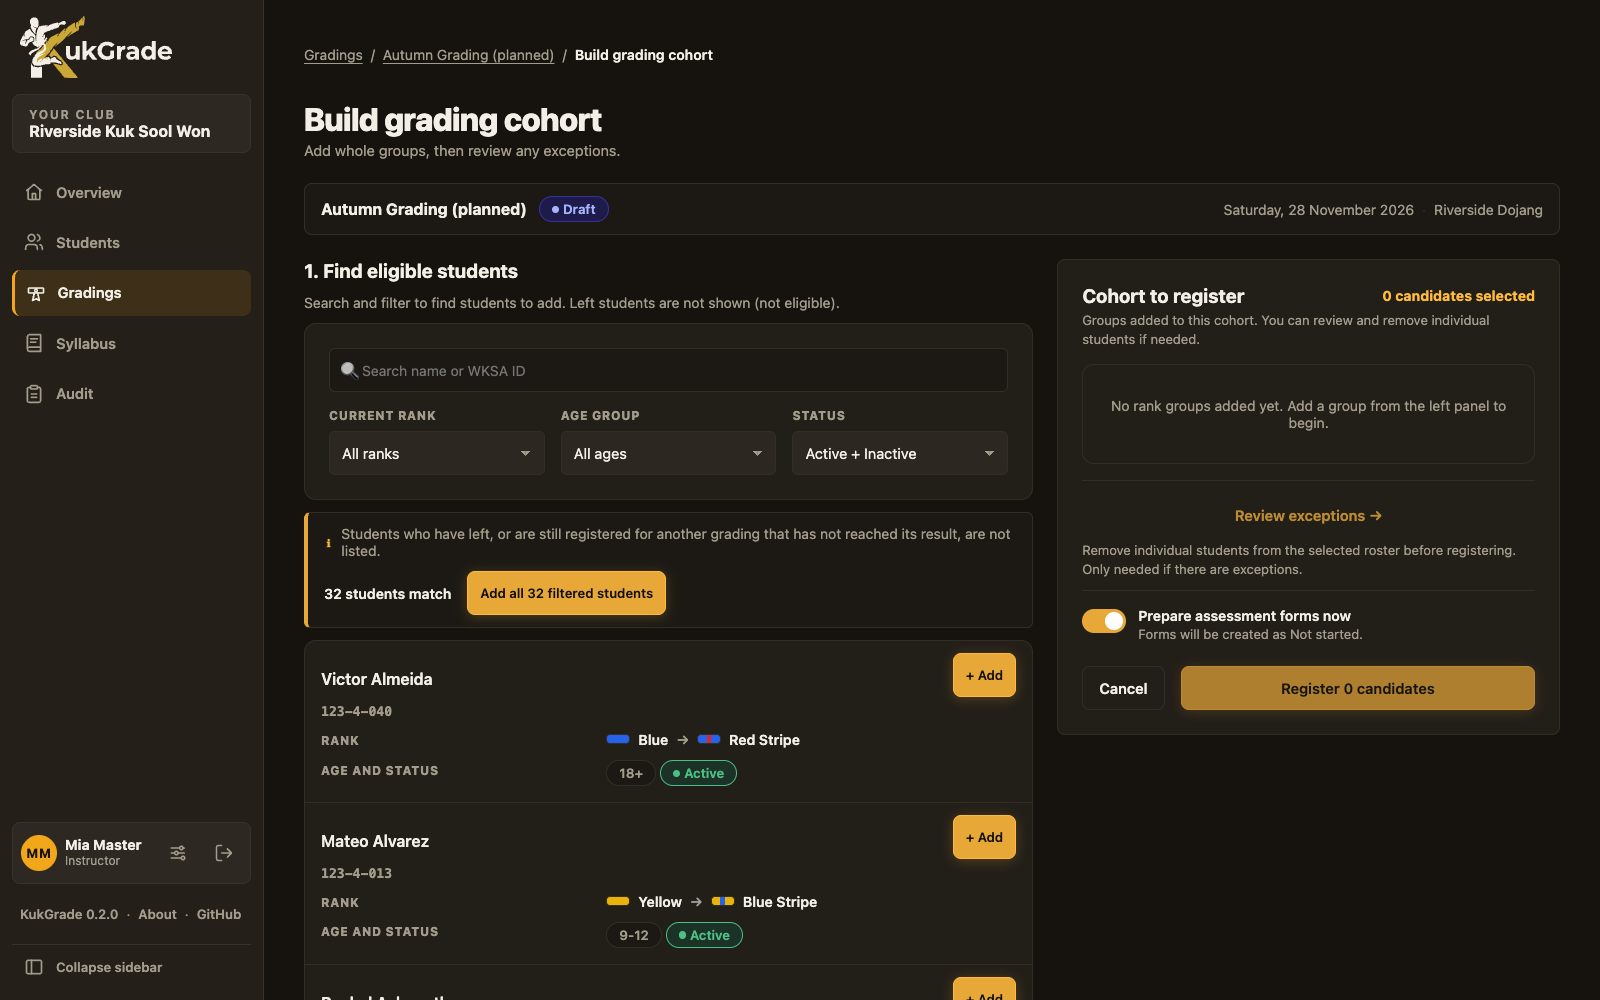
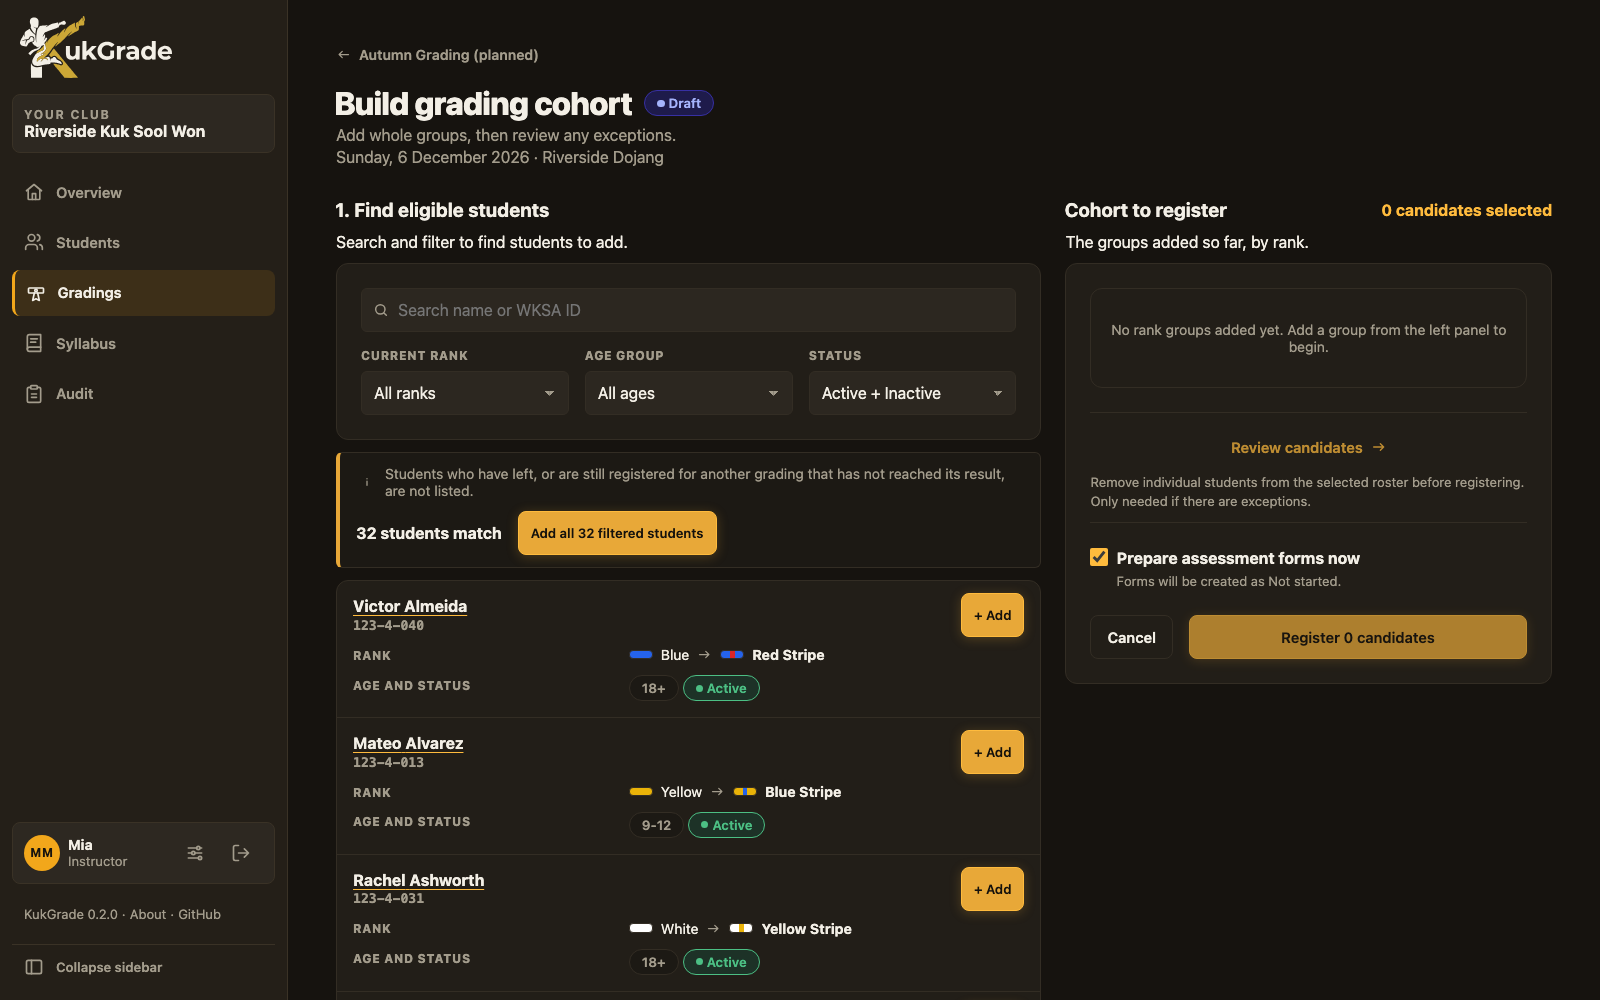
docs: new README screenshots, lined up in their table
The seven pictures retaken from the demo club as it is now (dark, 1600 x 1000,
each page at its top, the demo strip hidden for the photo). The table's cells
are top-aligned and each picture fills its cell, so pairs line up.

diff --git a/README.md b/README.md
@@ -92,32 +92,32 @@ Pangolin: see the [installation guide](docs/installation.md). Every setting is i
 
 <table>
   <tr>
-    <td width="50%">
-      <img src="docs/assets/screenshots/session.png" alt="A grading session with its lifecycle and candidates">
+    <td width="50%" valign="top">
+      <img src="docs/assets/screenshots/session.png" alt="A grading session with its lifecycle and candidates" width="100%">
       <p align="center"><b>Run a grading session</b><br>Lifecycle, candidates and next actions at a glance</p>
     </td>
-    <td width="50%">
-      <img src="docs/assets/screenshots/assessment.png" alt="Scoring a candidate requirement by requirement">
+    <td width="50%" valign="top">
+      <img src="docs/assets/screenshots/assessment.png" alt="Scoring a candidate requirement by requirement" width="100%">
       <p align="center"><b>Assess on the mat</b><br>Mark every requirement, with a live count</p>
     </td>
   </tr>
   <tr>
-    <td width="50%">
-      <img src="docs/assets/screenshots/decisions.png" alt="The Master's final decision board">
+    <td width="50%" valign="top">
+      <img src="docs/assets/screenshots/decisions.png" alt="The Master's final decision board" width="100%">
       <p align="center"><b>Decide</b><br>The evidence, the proposal and the final decision, side by side</p>
     </td>
-    <td width="50%">
-      <img src="docs/assets/screenshots/cohort.png" alt="Building a grading cohort">
+    <td width="50%" valign="top">
+      <img src="docs/assets/screenshots/cohort.png" alt="Building a grading cohort" width="100%">
       <p align="center"><b>Build a cohort</b><br>Add whole groups, then review exceptions</p>
     </td>
   </tr>
   <tr>
-    <td width="50%">
-      <img src="docs/assets/screenshots/students.png" alt="The student list">
+    <td width="50%" valign="top">
+      <img src="docs/assets/screenshots/students.png" alt="The student list" width="100%">
       <p align="center"><b>Know your students</b><br>Search, filter, and see each one's current grading</p>
     </td>
-    <td width="50%">
-      <img src="docs/assets/screenshots/syllabus.png" alt="The syllabus by rank and age band">
+    <td width="50%" valign="top">
+      <img src="docs/assets/screenshots/syllabus.png" alt="The syllabus by rank and age band" width="100%">
       <p align="center"><b>Browse the syllabus</b><br>By rank and age band, cumulative to each rank</p>
     </td>
   </tr>
